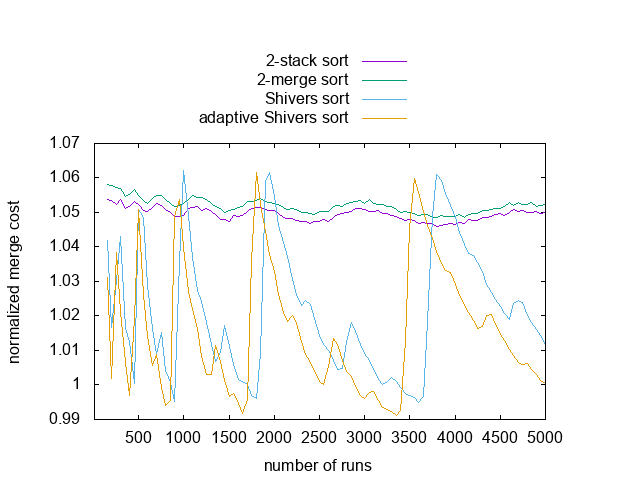
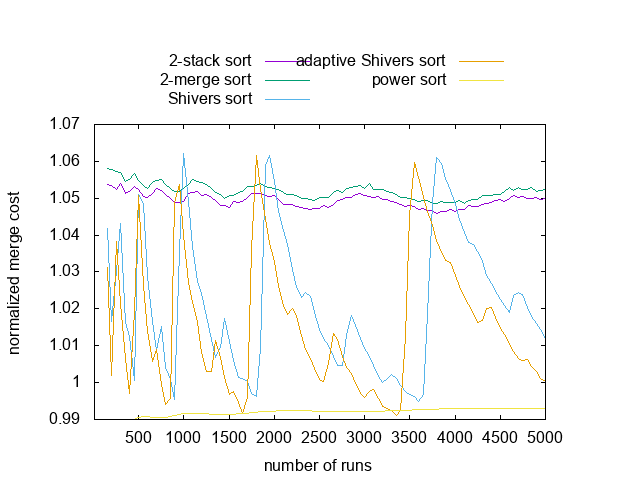
Add power sort

diff --git a/source/main.cpp b/source/main.cpp
@@ -13,6 +13,7 @@
 #include "shivers_sort.h"
 #include "augmented_shivers_sort.h"
 #include "adaptive_shivers_sort.h"
+#include "power_sort.h"
 #include "random_generator.h"
 #include "compose_generator.h"
 #include "uniform_generator.h"
@@ -132,6 +133,7 @@ int main(int argc, char** argv) {
 		cerr << "          shivers_sort\n";
 		cerr << "          adaprive_shivers_sort\n";
 		cerr << "          augmented_shivers_sort\n";
+        cerr << "          power_sort\n";
 
 
 		return 1;
@@ -147,6 +149,7 @@ int main(int argc, char** argv) {
 			cerr << "Missed parameter: SORTING_ALGORITHM.\n";
 			return 1;
 		}
+
 
 		if(strcmp(argv[params + 1], "alpha_stack_sort") == 0) {
 			if(argc < params + 2) {
@@ -178,6 +181,8 @@ int main(int argc, char** argv) {
 			algorithm = new adaptive_shivers_sort();
 		} else if(strcmp(argv[params + 1], "augmented_shivers_sort") == 0) {
 			algorithm = new augmented_shivers_sort();
+        } else if(strcmp(argv[params + 1], "power_sort") == 0) {
+			algorithm = new power_sort();
 		} else {
 			cerr << "Unknown algorithm.\n";
 			return 1;
